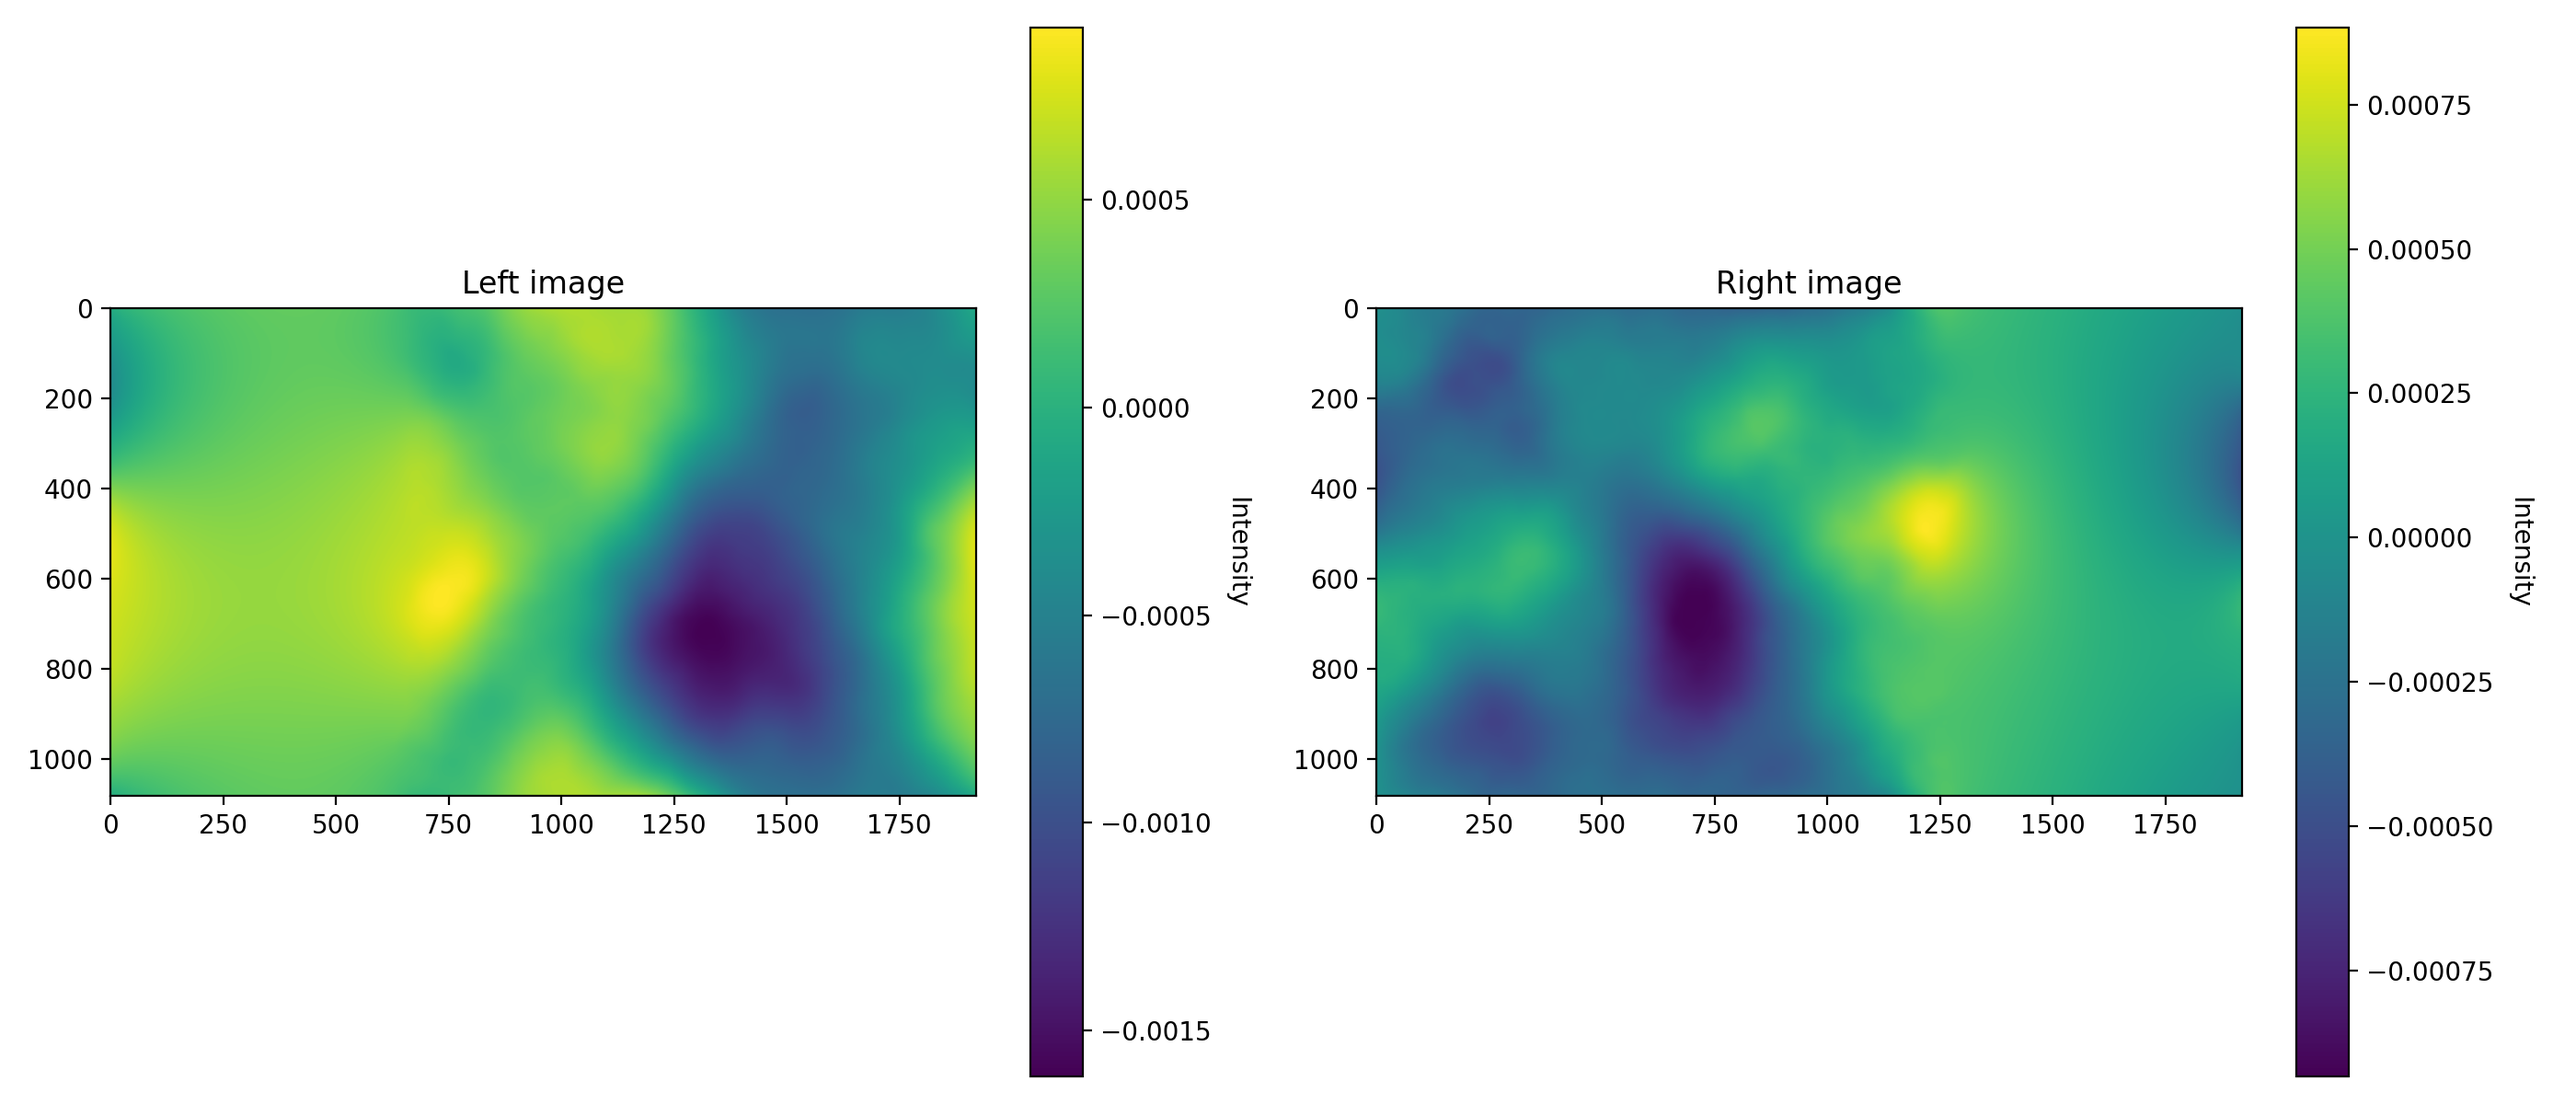
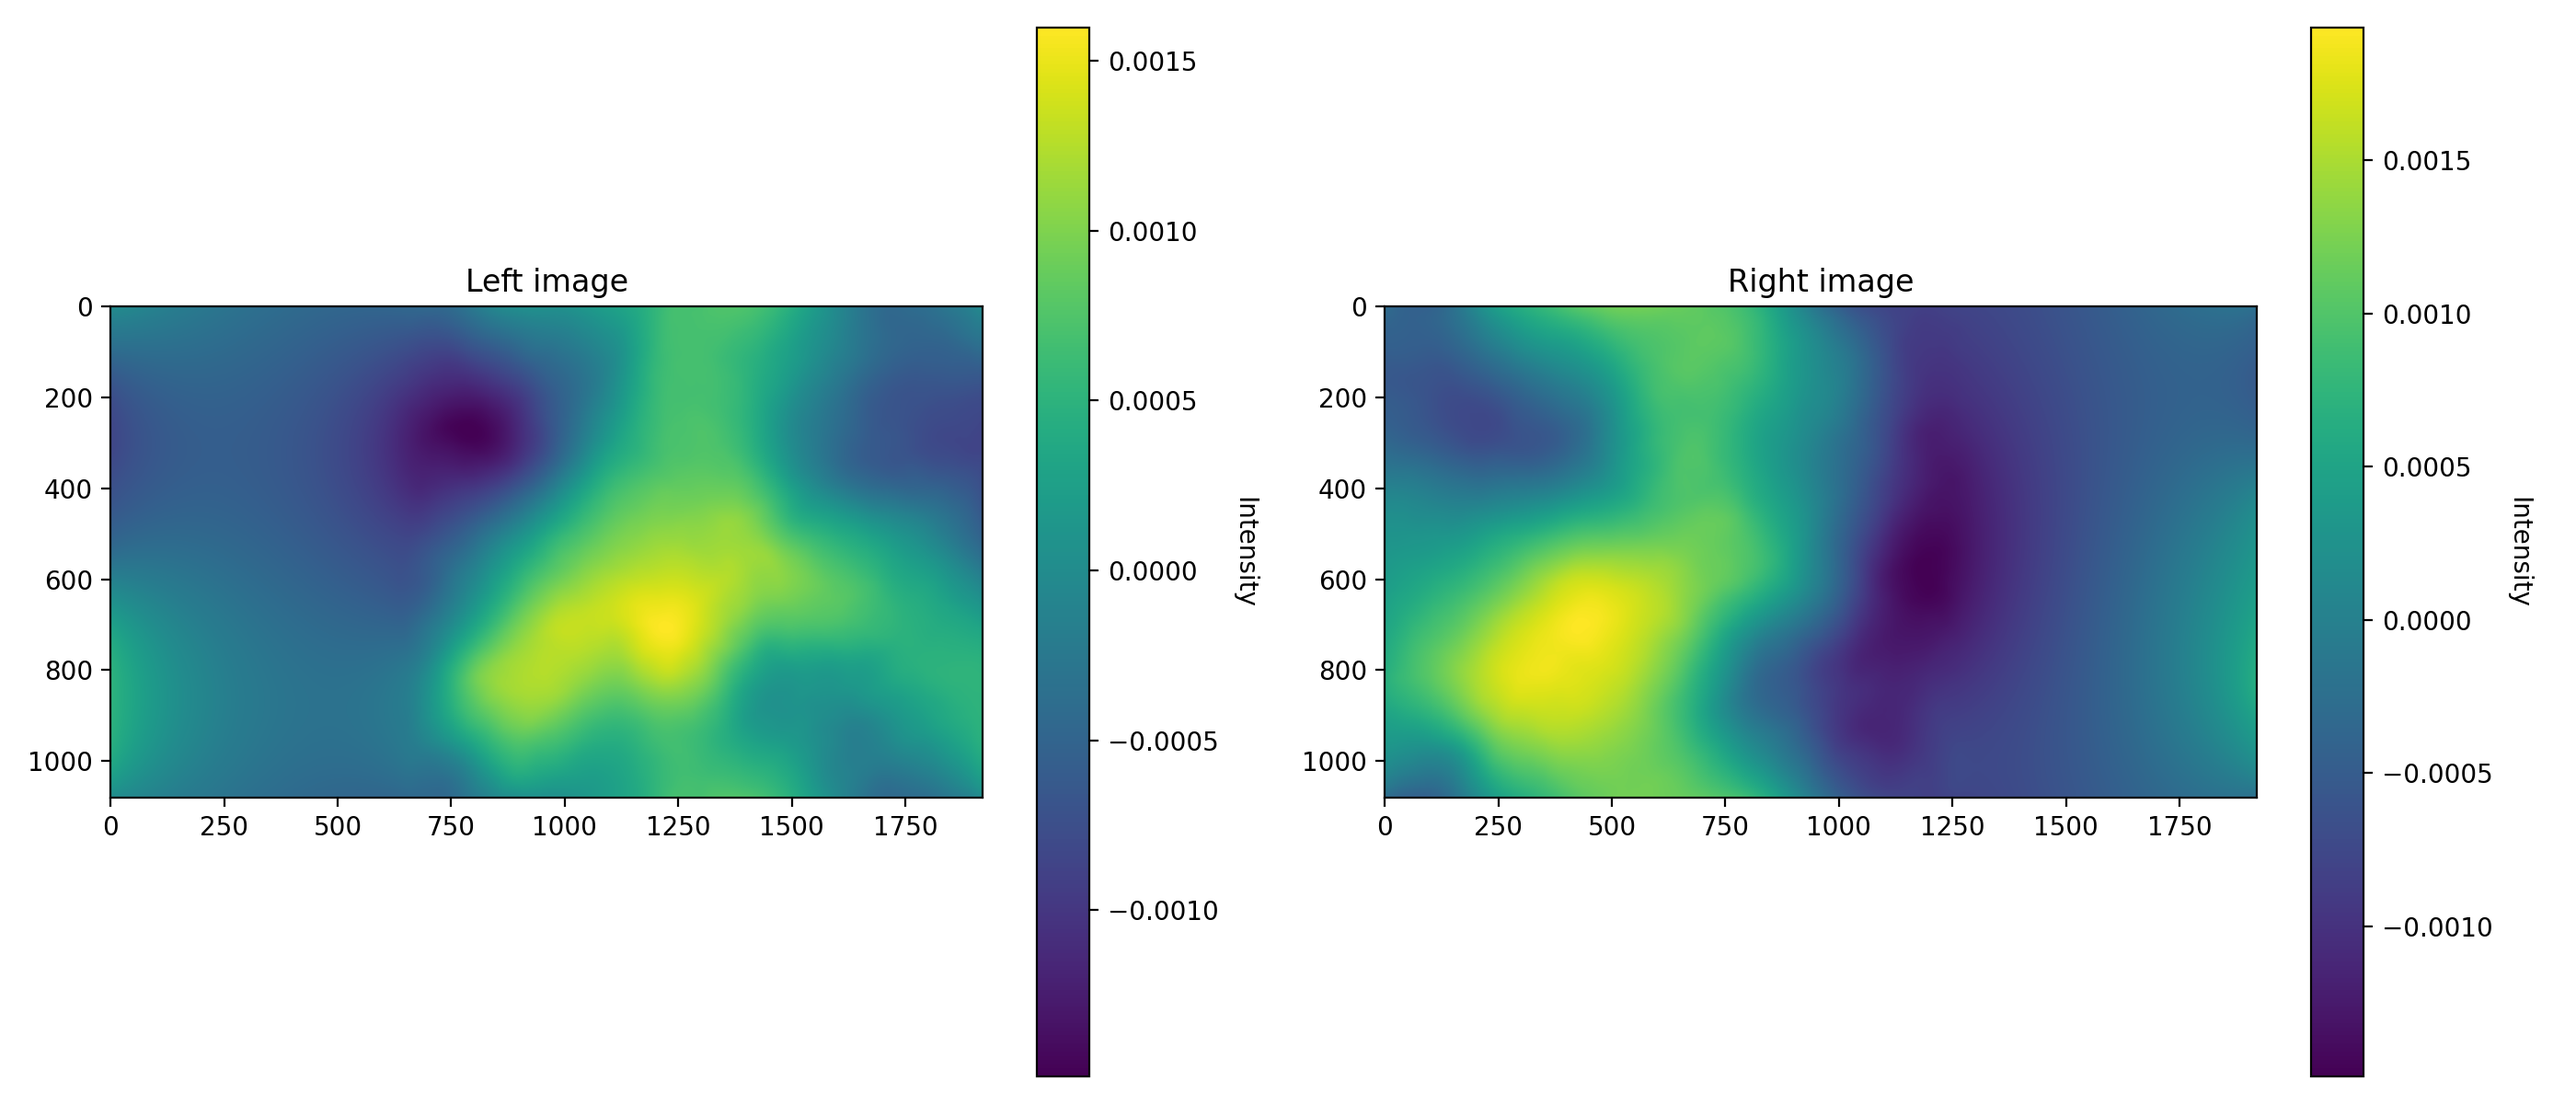
change 2D correlation in process_stereoscopy

Changed region(s): [[0.0, 0.0308, 0.9632, 0.9867]]

diff --git a/process_stereoscopy.py b/process_stereoscopy.py
@@ -6,6 +6,7 @@ from scipy.ndimage import label
 from scipy.optimize import linear_sum_assignment
 from pathlib import Path
 import glob, os
+from scipy import signal, datasets, ndimage
 
 # ------------------------------
 # CONFIGURATION
@@ -178,62 +179,70 @@ def correlation_1d(img_left, img_right, kernel_center, kernel_width):
                 best_corr = corr
                 best_x_R = x_R_orig
         axis.append(x_R_orig)
-    return axis, corr, best_x_R
+    return axis, correlation, best_x_R
 
 def correlation_2d(cam0, cam1, kernel_center, kernel_size):
-    correlation = []
-    kernel_height = img_left.shape[0]
-    half_win_width = kernel_size[1] // 2
-    half_win_height = kernel_size[0] // 2
-    img_center = kernel_center
+    # correlation = []
+    # kernel_height = img_left.shape[0]
+    # half_win_width = kernel_size[1] // 2
+    # half_win_height = kernel_size[0] // 2
+    # img_center = kernel_center
 
-    # Extract window
-    y1, y2 = 0, img_left.shape[0]
-    x1 = img_center - half_win_width
-    x2 = x1 + kernel_size[1]
+    # # Extract window
+    # y1, y2 = 0, img_left.shape[0]
+    # x1 = img_center - half_win_width
+    # x2 = x1 + kernel_size[1]
 
-    best_corr = -np.inf
-    best_x_R = None
+    # best_corr = -np.inf
+    # best_x_R = None
 
-    # create left image patch
-    patch_L = img_left[y1:y2, x1:x2].astype(np.float32)
-        # --- extract 2 dimensional correlation ---
-    search_x_min = half_win_width
-    search_x_max = img_right.shape[1] + half_win_width  # Right image should be to the left or same x
-    search_y_min = half_win_height
-    search_y_max = img_right.shape[0] + half_win_height
+    # # create left image patch
+    # patch_L = img_left[y1:y2, x1:x2].astype(np.float32)
+    #     # --- extract 2 dimensional correlation ---
+    # search_x_min = half_win_width
+    # search_x_max = img_right.shape[1] + half_win_width  # Right image should be to the left or same x
+    # search_y_min = half_win_height
+    # search_y_max = img_right.shape[0] + half_win_height
 
-    # padding
-    img_right_padded = np.zeros((img_right.shape[0] + 2*half_win_height, img_right.shape[1] + 2*half_win_width), dtype=img_left.dtype)
-    img_right_padded[half_win_height:half_win_height + img_right.shape[0], half_win_width:half_win_width + img_right.shape[1]] = img_right
-    print(img_right_padded.shape)
+    # # padding
+    # img_right_padded = np.zeros((img_right.shape[0] + 2*half_win_height, img_right.shape[1] + 2*half_win_width), dtype=img_left.dtype)
+    # img_right_padded[half_win_height:half_win_height + img_right.shape[0], half_win_width:half_win_width + img_right.shape[1]] = img_right
+    # print(img_right_padded.shape)
 
-    axis = []
-    corr_map = np.zeros((img_right.shape), dtype=np.float32)
+    # axis = []
+    # corr_map = np.zeros((img_right.shape), dtype=np.float32)
 
-    for y_R in range(search_y_min, search_y_max):
-        y_R_orig = y_R - half_win_height
-        y1_R = y_R - half_win_height
-        y2_R = y1_R + kernel_size[0]
-        for x_R in range(search_x_min, search_x_max):
-            x_R_orig = x_R - half_win_width
-            x1_R = x_R - half_win_width
-            x2_R = x1_R + kernel_size[1]
+    # for y_R in range(search_y_min, search_y_max):
+    #     y_R_orig = y_R - half_win_height
+    #     y1_R = y_R - half_win_height
+    #     y2_R = y1_R + kernel_size[0]
+    #     for x_R in range(search_x_min, search_x_max):
+    #         x_R_orig = x_R - half_win_width
+    #         x1_R = x_R - half_win_width
+    #         x2_R = x1_R + kernel_size[1]
             
-            patch_R = img_right_padded[y1_R:y2_R, x1_R:x2_R].astype(np.float32)
+    #         patch_R = img_right_padded[y1_R:y2_R, x1_R:x2_R].astype(np.float32)
             
-            # Normalized cross-correlation (only if patches are same size and nonzero)
-            if patch_L.shape == patch_R.shape and patch_L.std() > 0 and patch_R.std() > 0:
-                corr = np.corrcoef(patch_L.ravel(), patch_R.ravel())[0, 1]
-                corr_map[y_R_orig,x_R_orig] = corr
-                correlation.append(corr)
-                if corr > best_corr:
-                    best_corr = corr
-                    best_x_R = x_R_orig
-            axis.append(x_R_orig)
-        print(f"Now at y_R = {y_R_orig}")
-    best = np.unravel_index(np.argmax(corr_map), corr_map.shape)
-    return axis, corr_map, best
+    #         # Normalized cross-correlation (only if patches are same size and nonzero)
+    #         if patch_L.shape == patch_R.shape and patch_L.std() > 0 and patch_R.std() > 0:
+    #             corr = np.corrcoef(patch_L.ravel(), patch_R.ravel())[0, 1]
+    #             corr_map[y_R_orig,x_R_orig] = corr
+    #             correlation.append(corr)
+    #             if corr > best_corr:
+    #                 best_corr = corr
+    #                 best_x_R = x_R_orig
+    #         axis.append(x_R_orig)
+    #     print(f"Now at y_R = {y_R_orig}")
+    # best = np.unravel_index(np.argmax(corr_map), corr_map.shape)
+
+    # with scipy correlate2d
+    # corr_scipy = signal.correlate2d(cam0, cam1, mode='full', boundary='fill')
+    cam0_flipped = cam0[::-1,::-1]
+    corr_scipy = signal.fftconvolve(cam1, cam0_flipped,mode='same')
+    best = np.unravel_index(np.argmax(corr_scipy), corr_scipy.shape)
+
+    # return axis, corr_map, best
+    return corr_scipy, best
 
 
 # Load phase arrays
@@ -272,8 +281,9 @@ kernel_width = img_left.shape[0]
 kernel_shape = img_left.shape
 #ax, corr_1d_8bit, best_x_R_8bit = correlation_1d(img_left, img_right, center, width)
 # without 8-bit conversion
-ax1, corr_1d, best_x_R = correlation_1d(cam0, cam1, center, kernel_width)
-ax2, corr_2d, (best_y,best_x) = correlation_2d(cam0, cam1, center, kernel_shape)
+ax, corr_1d, best_x_R = correlation_1d(cam0, cam1, center, kernel_width)
+# ax2, corr_2d, (best_y,best_x) = correlation_2d(cam0, cam1, center, kernel_shape)
+corr_2d, (best_y,best_x) = correlation_2d(cam0, cam1, center, kernel_shape)
 
 
 #disp_8bit = center - best_x_R_8bit
@@ -328,7 +338,7 @@ fig.savefig(os.path.join(output_folder,'stereo.png'), dpi=fig.dpi)
 
 
 plt.figure()
-plt.plot(ax1, corr_1d)
+plt.plot(ax, corr_1d)
 plt.title('Image Correlation')
 plt.xlim(0, img_right.shape[1]); 
 #plt.ylim(0, 1)
@@ -342,14 +352,13 @@ if config["distortions"]["turbulence_number"] == 1:
     )
 else:
     pass
-
 plt.show(block=False)
 
-
+plt.figure()
 plt.imshow(corr_2d, cmap='hot')
 plt.colorbar(label='Correlation')
 plt.plot(best_x,best_y, 'b+', markersize=15)
-plt.show
+plt.show()
 
 
 
